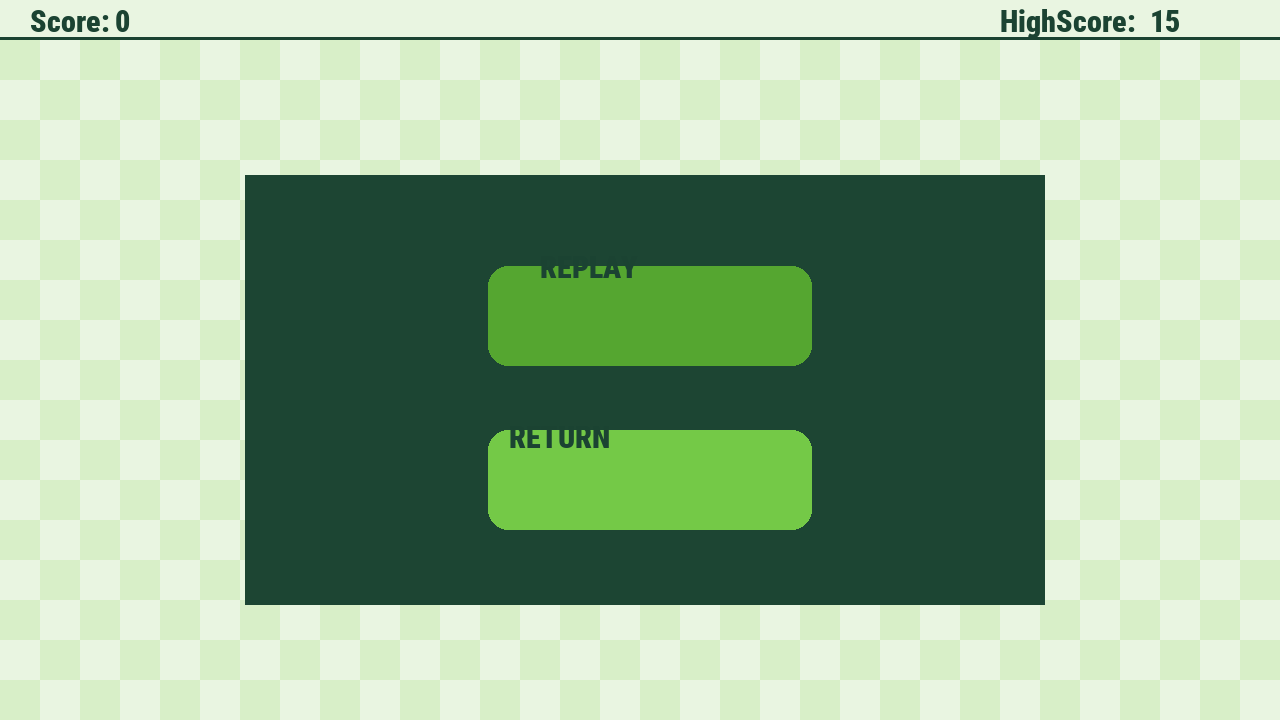
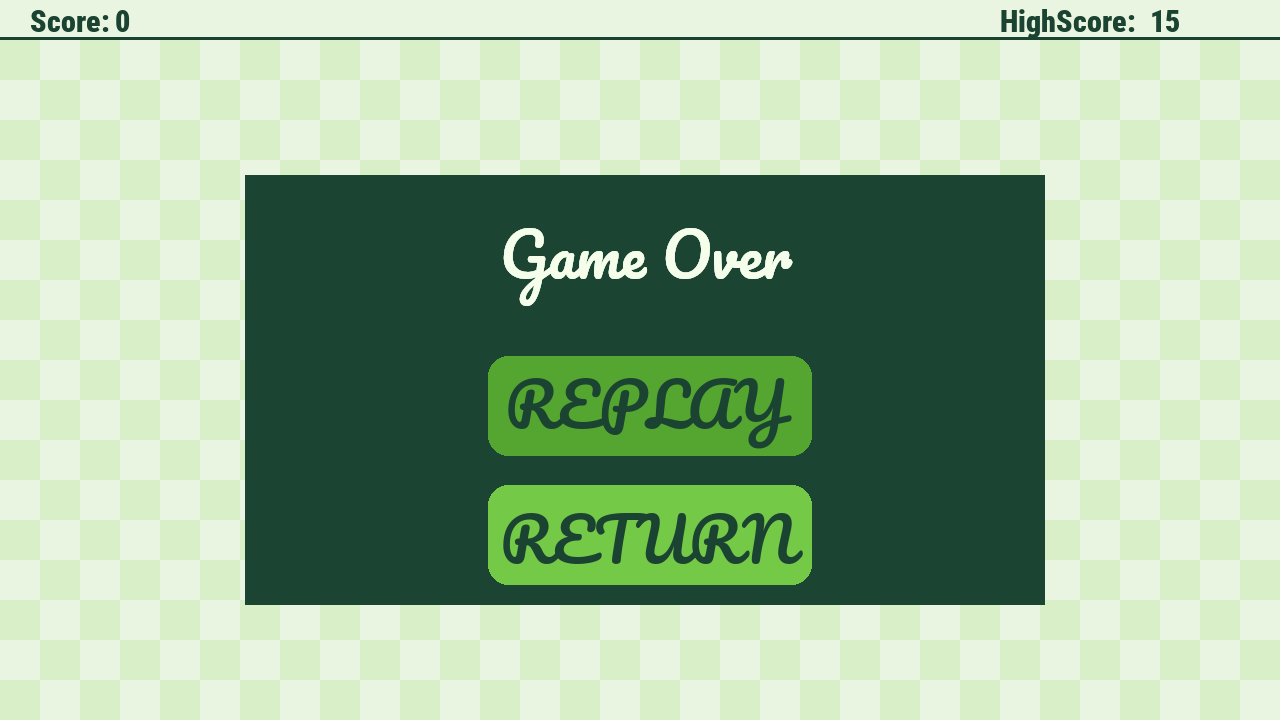
game over menu fix and finish

Changed region(s): [[0.375, 0.3056, 0.6562, 0.825]]

diff --git a/snake.py b/snake.py
@@ -1,9 +1,10 @@
 import pygame as pg
-#! import pygame_gui as pgui
-import sys
 import os
+import sys
 import random
 import json
+import gc
+import time
 
 os.chdir(os.path.dirname(os.path.abspath(__file__)))
 
@@ -37,6 +38,7 @@ clock = pg.time.Clock()
 
 #*Font
 title_font = pg.font.SysFont('pacifico regular', 70)
+lm_font = pg.font.SysFont('pacifico regular', 60)
 text_font = pg.font.SysFont('RobotoCondensed Black',30)
 
 def main_menu():
@@ -70,15 +72,18 @@ def main_menu():
             pg.draw.rect(SCREEN, btn_hover, play_button, border_radius=20)
             SCREEN.blit(play_text, (540, 250))
             if pg.mouse.get_pressed()[0]:
+                gc.collect()
                 game()
 
         if leave_button.collidepoint(mouse):
             pg.draw.rect(SCREEN, btn_hover, leave_button, border_radius=20)
             SCREEN.blit(leave_text, (509, 420))
             if pg.mouse.get_pressed()[0]:
+                gc.collect()
                 pg.quit()
                 sys.exit()
-        pg.display.flip()
+
+        pg.display.update()
         
 class HighScoreManager:
     def __init__(self, filename=HighScore_loc):
@@ -151,6 +156,7 @@ def game():
 
         for ev in pg.event.get():
             if ev.type == pg.QUIT:
+                gc.collect()
                 pg.quit()
                 sys.exit()
             elif ev.type == pg.KEYDOWN:
@@ -200,15 +206,17 @@ def game():
         clock.tick(5)
 
     pg.image.save(SCREEN, "Finale.png")
-    end_menu(score, HighScore)
+    gc.collect()
+    end_menu(HighScore)
     
     
-def end_menu(score,HSB):
+def end_menu(HSB):
     pg.time.delay(300)
     while True:
         mouse = pg.mouse.get_pos()
         for event in pg.event.get():
             if event.type == pg.QUIT:
+                gc.collect()
                 pg.quit()
                 sys.exit()
                 
@@ -218,30 +226,39 @@ def end_menu(score,HSB):
         rect = pg.Surface((800,430), pg.SRCALPHA, 32)
         rect.fill((27, 67, 50, 40))
         SCREEN.blit(rect, (245,175))
-    
 
-        play_button = pg.Rect(488, 266, 324, 100)
-        pg.draw.rect(SCREEN, btn, play_button, border_radius=20)
-        play_text = text_font.render('REPLAY', True, text_color)
-        SCREEN.blit(play_text, (540, 250))
+        if HSB == True:
+            end_txt = lm_font.render("You Broke The HighScore !!!!!", True,background_color )
+            SCREEN.blit(end_txt, (300, 200))
+        else:
+            end_txt = lm_font.render("Game Over", True, background_color)
+            SCREEN.blit(end_txt, (500, 200))
 
-        leave_button = pg.Rect(488, 430, 324, 100)
-        pg.draw.rect(SCREEN, btn, leave_button, border_radius=20)
-        leave_text = text_font.render('RETURN', True, text_color)
-        SCREEN.blit(leave_text, (509, 420))
+        replay_button = pg.Rect(488, 356, 324, 100)
+        pg.draw.rect(SCREEN, btn, replay_button, border_radius=20)
+        replay_text = lm_font.render('REPLAY', True, text_color)
+        SCREEN.blit(replay_text, (505, 350))
 
-        if play_button.collidepoint(mouse):
-            pg.draw.rect(SCREEN, btn_hover, play_button, border_radius=20)
-            SCREEN.blit(play_text, (540, 250))
+        if replay_button.collidepoint(mouse):
+            pg.draw.rect(SCREEN, btn_hover, replay_button, border_radius=20)
+            SCREEN.blit(replay_text, (505, 350))
             if pg.mouse.get_pressed()[0]:
+                gc.collect()
                 game()
+
+        leave_button = pg.Rect(488, 485, 324, 100)
+        pg.draw.rect(SCREEN, btn, leave_button, border_radius=20)
+        leave_text = lm_font.render('RETURN', True, text_color)
+        SCREEN.blit(leave_text, (500, 485))
 
         if leave_button.collidepoint(mouse):
             pg.draw.rect(SCREEN, btn_hover, leave_button, border_radius=20)
-            SCREEN.blit(leave_text, (509, 420))
+            SCREEN.blit(leave_text, (500, 485))
             if pg.mouse.get_pressed()[0]:
+                time.sleep(0.1)
+                gc.collect()
                 main_menu()
-        pg.display.flip()
+                
         pg.display.update()
     
     
